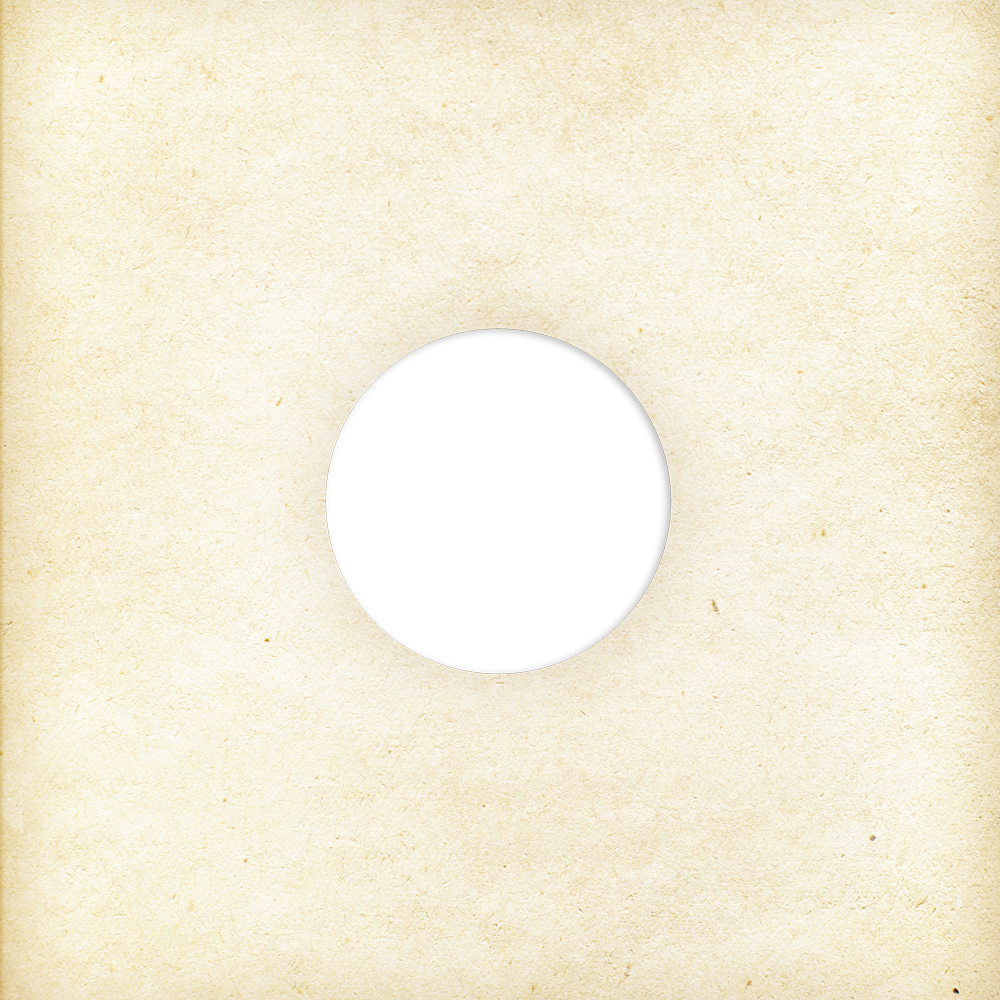
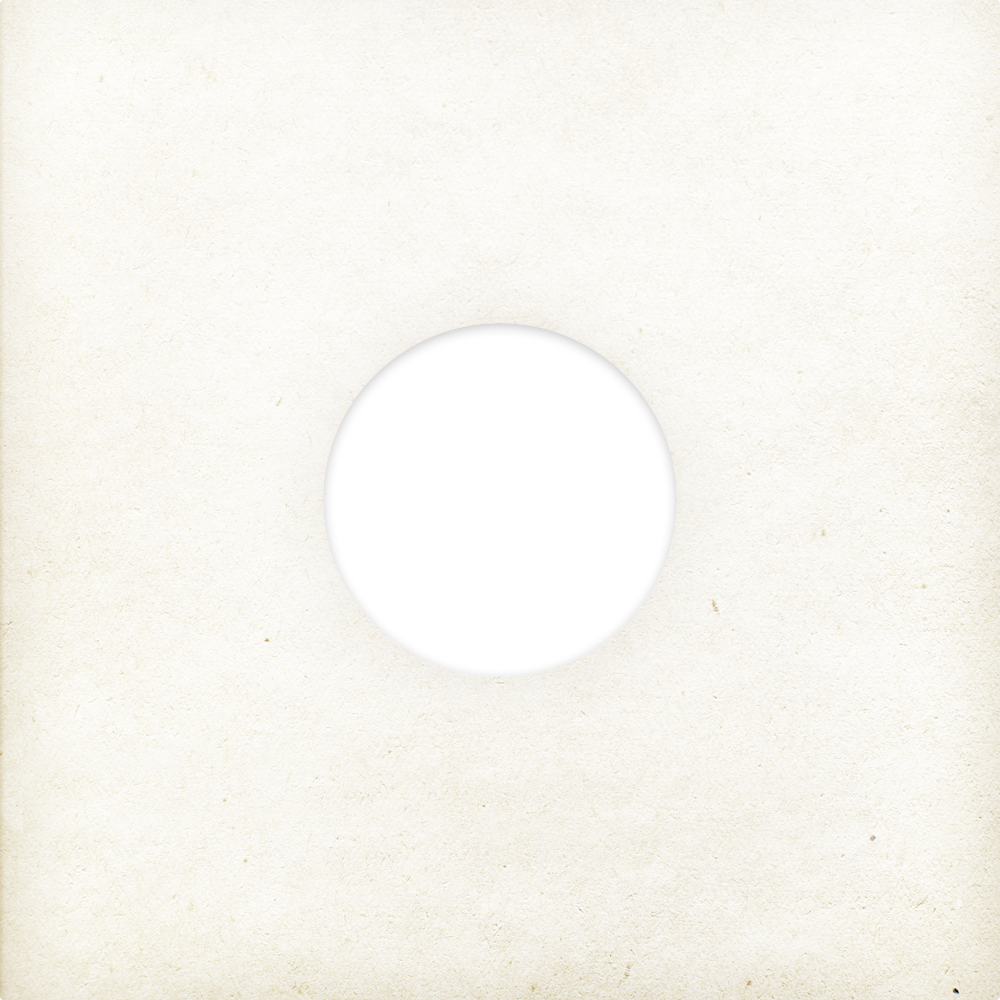
colors, typekit and shadows

diff --git a/style.css b/style.css
@@ -3,6 +3,11 @@ html, body, .table, .cell {
   height: 100%;
   margin: 0px;
   padding: 0px;
+  font-family: "jaf-facitweb",sans-serif;
+}
+
+body {
+  background-color: #E3E5E6;
 }
 
 .table {
@@ -24,6 +29,7 @@ html, body, .table, .cell {
   position: absolute;
   top: 0px;
   left: 0px;
+  -webkit-box-shadow: 0px 2px 6px rgba(0,0,0,0.1);
 }
 
 .cover {

diff --git a/index.html b/index.html
@@ -6,6 +6,8 @@
     <title>KEVINALBUM!!!!!!!!!</title>
     <script src="http://code.jquery.com/jquery-latest.min.js"></script>
     <link href="style.css" rel="stylesheet" />
+    <script src="//use.typekit.net/dbo5tsp.js"></script>
+    <script>try{Typekit.load();}catch(e){}</script>
   </head>
 
   <body>
